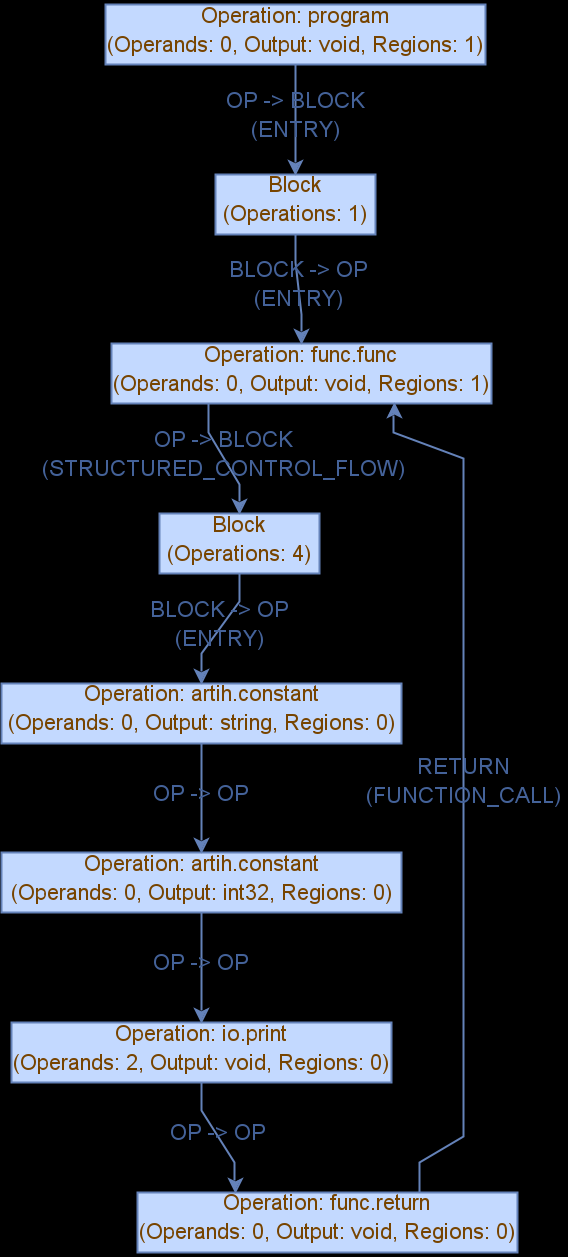
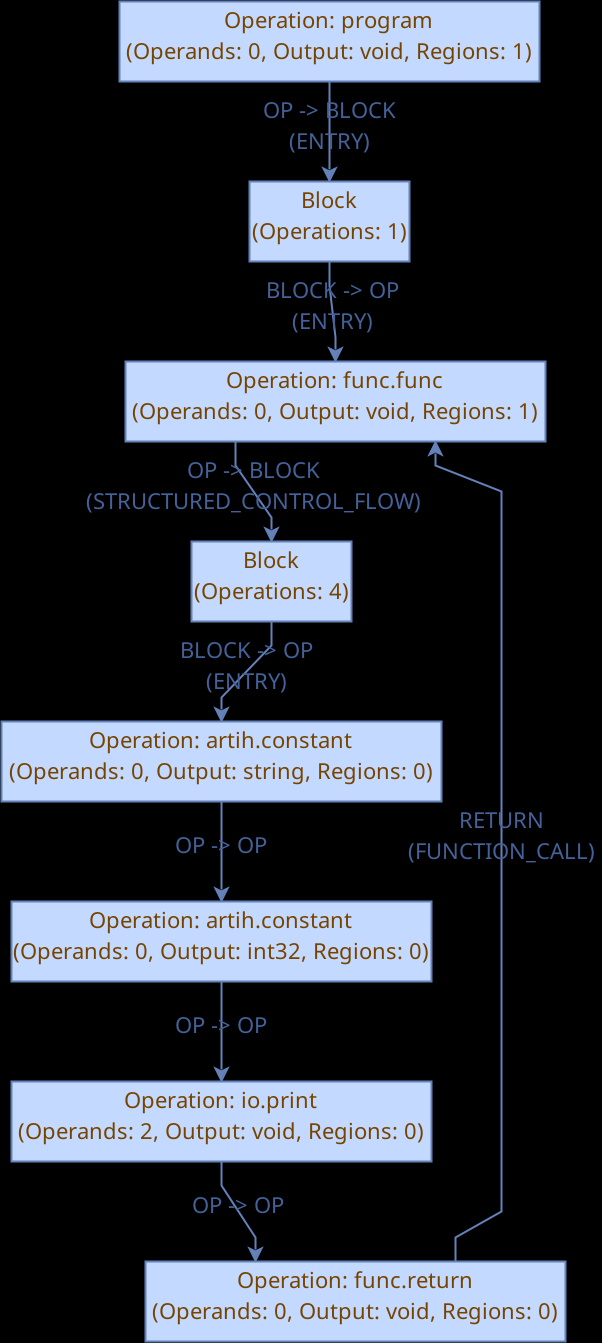
Added new DotCFG class for generating control flow graphs using the dot format and updated tests to use it.

Changed region(s): [[0.0, 0.0, 0.9877, 1.0]]

diff --git a/blockly/vm/src/main/java/blockly/vm/dgir/core/DotCFG.java b/blockly/vm/src/main/java/blockly/vm/dgir/core/DotCFG.java
@@ -1,0 +1,176 @@
+package blockly.vm.dgir.core;
+
+import org.apache.commons.lang3.tuple.Pair;
+import org.jgrapht.Graph;
+import org.jgrapht.graph.AsSubgraph;
+import org.jgrapht.graph.DefaultEdge;
+import org.jgrapht.graph.builder.GraphTypeBuilder;
+import org.jgrapht.nio.dot.DOTExporter;
+
+import java.io.StringWriter;
+import java.util.*;
+import java.util.function.Function;
+
+public class DotCFG {
+  private DotCFG() {
+  }
+
+  public static Pair<Graph<Operation, DefaultEdge>, Cluster> buildCfg(Operation root) {
+    GraphBuilder builder = new GraphBuilder(root);
+    builder.processOperation(root);
+    return builder.getCfg();
+  }
+
+  public static class Cluster {
+    private final Operation owner;
+    private final Cluster parent;
+    private final List<Operation> operations = new ArrayList<>();
+    private final List<Cluster> children = new ArrayList<>();
+
+    public Cluster(Operation owner, Cluster parent) {
+      this.owner = owner;
+      this.parent = parent;
+    }
+
+    public List<Operation> getOperations() {
+      return operations;
+    }
+
+    public void addOperation(Operation op) {
+      operations.add(op);
+    }
+
+    public List<Cluster> getChildren() {
+      return children;
+    }
+
+    public Cluster addChild(Cluster child) {
+      children.add(child);
+      return child;
+    }
+
+    public Operation getOwner() {
+      return owner;
+    }
+
+    public Cluster getParent() {
+      return parent;
+    }
+
+    /**
+     * Returns a subgraph of the given CFG that includes only the operations in this cluster.
+     * The subgraph will include all edges from the original CFG that connect operations in this cluster.
+     * Note that this method does not include any operations from child clusters, only the operations directly in this cluster.
+     *
+     * @param cfg The original CFG to mask.
+     * @return A subgraph of the given CFG that includes only the operations in this cluster.
+     */
+    public AsSubgraph<Operation, DefaultEdge> getMasked(Graph<Operation, DefaultEdge> cfg) {
+      List<Operation> withEntry = new ArrayList<>(operations);
+      for (Cluster child : children) {
+        if (!child.getOperations().isEmpty())
+          withEntry.add(child.getOperations().getFirst());
+      }
+      return new AsSubgraph<>(cfg, Set.copyOf(withEntry));
+    }
+
+    /**
+     * Recursively creates a dot graph representation of this cluster and its children.
+     * The graph type of the children graphs are replaced with 'subgraph' and a unique label is assigned to each cluster.
+     *
+     * @param cfg The original CFG to mask.
+     * @return A dot graph representation of this cluster and its children.
+     */
+    public String toDotString(Graph<Operation, DefaultEdge> cfg) {
+      List<String> subgraphs = new ArrayList<>();
+      int clusterCounter = 0;
+      for (Cluster child : children) {
+        subgraphs.add(child.toDotString(cfg));
+        // Replace the graph type of the child cluster with 'subgraph' and add a unique label
+        subgraphs.set(subgraphs.size() - 1, subgraphs.getLast().replace("digraph", "subgraph"));
+        subgraphs.set(subgraphs.size() - 1, subgraphs.getLast().replace("subgraph G", "subgraph cluster_" + clusterCounter++));
+      }
+      class OpVertexIdent implements Function<Operation, String> {
+        @Override
+        public String apply(Operation op) {
+          return op.getDetails().getIdent().replace(".", "_") + "_" + op.hashCode();
+        }
+      }
+      DOTExporter<Operation, DefaultEdge> exporter = new DOTExporter<>(new OpVertexIdent());
+      StringWriter sb = new StringWriter();
+      exporter.exportGraph(getMasked(cfg), sb);
+
+      // Add the subgraphs to the main graph after the opening brace of the main graph
+      StringBuilder mainGraph = new StringBuilder(sb.toString());
+      mainGraph.insert(mainGraph.indexOf("{") + 2, String.join("\n", subgraphs).indent(1));
+      return mainGraph.toString();
+    }
+  }
+
+  private static class GraphBuilder {
+    private Graph<Operation, DefaultEdge> cfg;
+    private final Cluster rootCluster;
+
+    private Cluster currentCluster;
+
+    public GraphBuilder(Operation root) {
+      cfg = GraphTypeBuilder
+        .<Operation, DefaultEdge>directed()
+        .edgeClass(DefaultEdge.class)
+        .vertexClass(Operation.class)
+        .allowingSelfLoops(true)
+        .allowingMultipleEdges(true)
+        .buildGraph();
+
+      rootCluster = new Cluster(root, null);
+      currentCluster = rootCluster;
+    }
+
+    public Pair<Graph<Operation, DefaultEdge>, Cluster> getCfg() {
+      return Pair.of(cfg, rootCluster);
+    }
+
+    /**
+     * Add this operation to the graph and all of its regions.
+     *
+     * @param op The operation to process
+     */
+    public void processOperation(Operation op) {
+      cfg.addVertex(op);
+      currentCluster.addOperation(op);
+
+      // If there are no regions in this operation end the generation here
+      if (op.getRegions().isEmpty()) return;
+
+      for (Region region : op.getRegions()) {
+        processRegion(region);
+      }
+      // Add edges from this operation to the first operation in each region
+      for (Region region : op.getRegions()) {
+        if (!region.getBlocks().isEmpty() && !region.getBlocks().getFirst().getOperations().isEmpty()) {
+          cfg.addEdge(op, region.getBlocks().getFirst().getOperations().getFirst());
+        }
+      }
+    }
+
+    private void processRegion(Region region) {
+      for (Block block : region.getBlocks()) {
+        processBlock(block);
+      }
+    }
+
+    private void processBlock(Block block) {
+      // Open a new cluster for the block
+      currentCluster = currentCluster.addChild(new Cluster(currentCluster.owner, currentCluster));
+      Operation prev = null;
+      for (Operation op : block.getOperations()) {
+        processOperation(op);
+        if (prev != null)
+          cfg.addEdge(prev, op);
+        prev = op;
+      }
+      // Close the block cluster
+      currentCluster = currentCluster.getParent();
+    }
+  }
+}

diff --git a/blockly/vm/src/test/java/BuiltinTests.java b/blockly/vm/src/test/java/BuiltinTests.java
@@ -1,4 +1,4 @@
-import blockly.vm.dgir.core.CFG;
+import blockly.vm.dgir.core.DotCFG;
 import blockly.vm.dgir.core.serialization.Utils;
 import blockly.vm.dgir.dialect.builtin.attributes.IntegerAttribute;
 import blockly.vm.dgir.dialect.builtin.attributes.StringAttribute;
@@ -17,6 +17,8 @@ import tools.jackson.databind.ObjectMapper;
 import java.io.IOException;
 import java.util.List;
 
+import static blockly.vm.dgir.core.Utils.Graphing.drawGraph;
+import static blockly.vm.dgir.core.Utils.Graphing.drawUseGraph;
 import static org.junit.jupiter.api.Assertions.*;
 
 public class BuiltinTests {
@@ -67,8 +69,7 @@ public class BuiltinTests {
 
 
     try {
-      blockly.vm.dgir.core.Utils.Graphing.drawGraph(CFG.getCfg(null, op.getOperation()), "simpleProgramCfg.png", true);
-      blockly.vm.dgir.core.Utils.Graphing.drawUseGraph(op.getOperation(), "simpleProgramOpUse.png", true);
+      drawUseGraph(op.getOperation(), "simpleProgramOpUse.png", true);
     } catch (IOException e) {
       throw new RuntimeException(e);
     }
@@ -121,8 +122,10 @@ public class BuiltinTests {
       System.out.println(result);
 
     try {
-      blockly.vm.dgir.core.Utils.Graphing.drawGraph(CFG.getCfg(null, op.getOperation()), "functionCallCfg.png", true);
-      blockly.vm.dgir.core.Utils.Graphing.drawUseGraph(op.getOperation(), "functionCallUse.png", true);
+      var graph_cluster = DotCFG.buildCfg(op.getOperation());
+      drawGraph(graph_cluster.getLeft(), "functionCallCfg.png", true);
+      System.out.println(graph_cluster.getRight().toDotString(graph_cluster.getLeft()));
+      drawUseGraph(op.getOperation(), "functionCallUse.png", true);
     } catch (IOException e) {
       throw new RuntimeException(e);
     }

diff --git a/blockly/vm/src/main/java/blockly/vm/dgir/core/Block.java b/blockly/vm/src/main/java/blockly/vm/dgir/core/Block.java
@@ -14,7 +14,7 @@ import java.util.List;
  * Each block has a list of {@link BlockArgument} which are the input values to the block, that can be used by the operations within the block,
  * or blocks dominated by this block {@link DominatorTree}.
  * Each block has a list of operations that are executed in order. The last operation in the block must be a terminator operation,
- * which defines the control flow to other blocks, such as branches or jumps or returns to the parent operation/caller {@link CFG}.
+ * which defines the control flow to other blocks, such as branches or jumps or returns to the parent operation/caller {@link DotCFG}.
  * <p>
  * A block can be moved between regions, which updates the parent region of the block accordingly.
  * Blocks maintain the parent-child relationship with their operations and block arguments, ensuring that each operation and argument knows which block it belongs to.
@@ -40,7 +40,7 @@ import java.util.List;
  * @see Operation
  * @see BlockArgument
  * @see DominatorTree
- * @see CFG
+ * @see DotCFG
  */
 @JsonIdentityInfo(generator = ObjectIdGenerators.UUIDGenerator.class, property = "@id")
 public final class Block extends IRObjectWithUseList<Block, BlockOperand> implements Serializable {

diff --git a/blockly/vm/src/main/java/blockly/vm/dgir/core/DetailedCFG.java b/blockly/vm/src/main/java/blockly/vm/dgir/core/DetailedCFG.java
@@ -7,10 +7,9 @@ import org.jgrapht.Graph;
 import org.jgrapht.graph.DefaultEdge;
 import org.jgrapht.graph.builder.GraphTypeBuilder;
 
-import javax.swing.text.html.Option;
 import java.util.Optional;
 
-public class CFG {
+public class DetailedCFG {
   /**
    * A transition in the CFG.
    */
